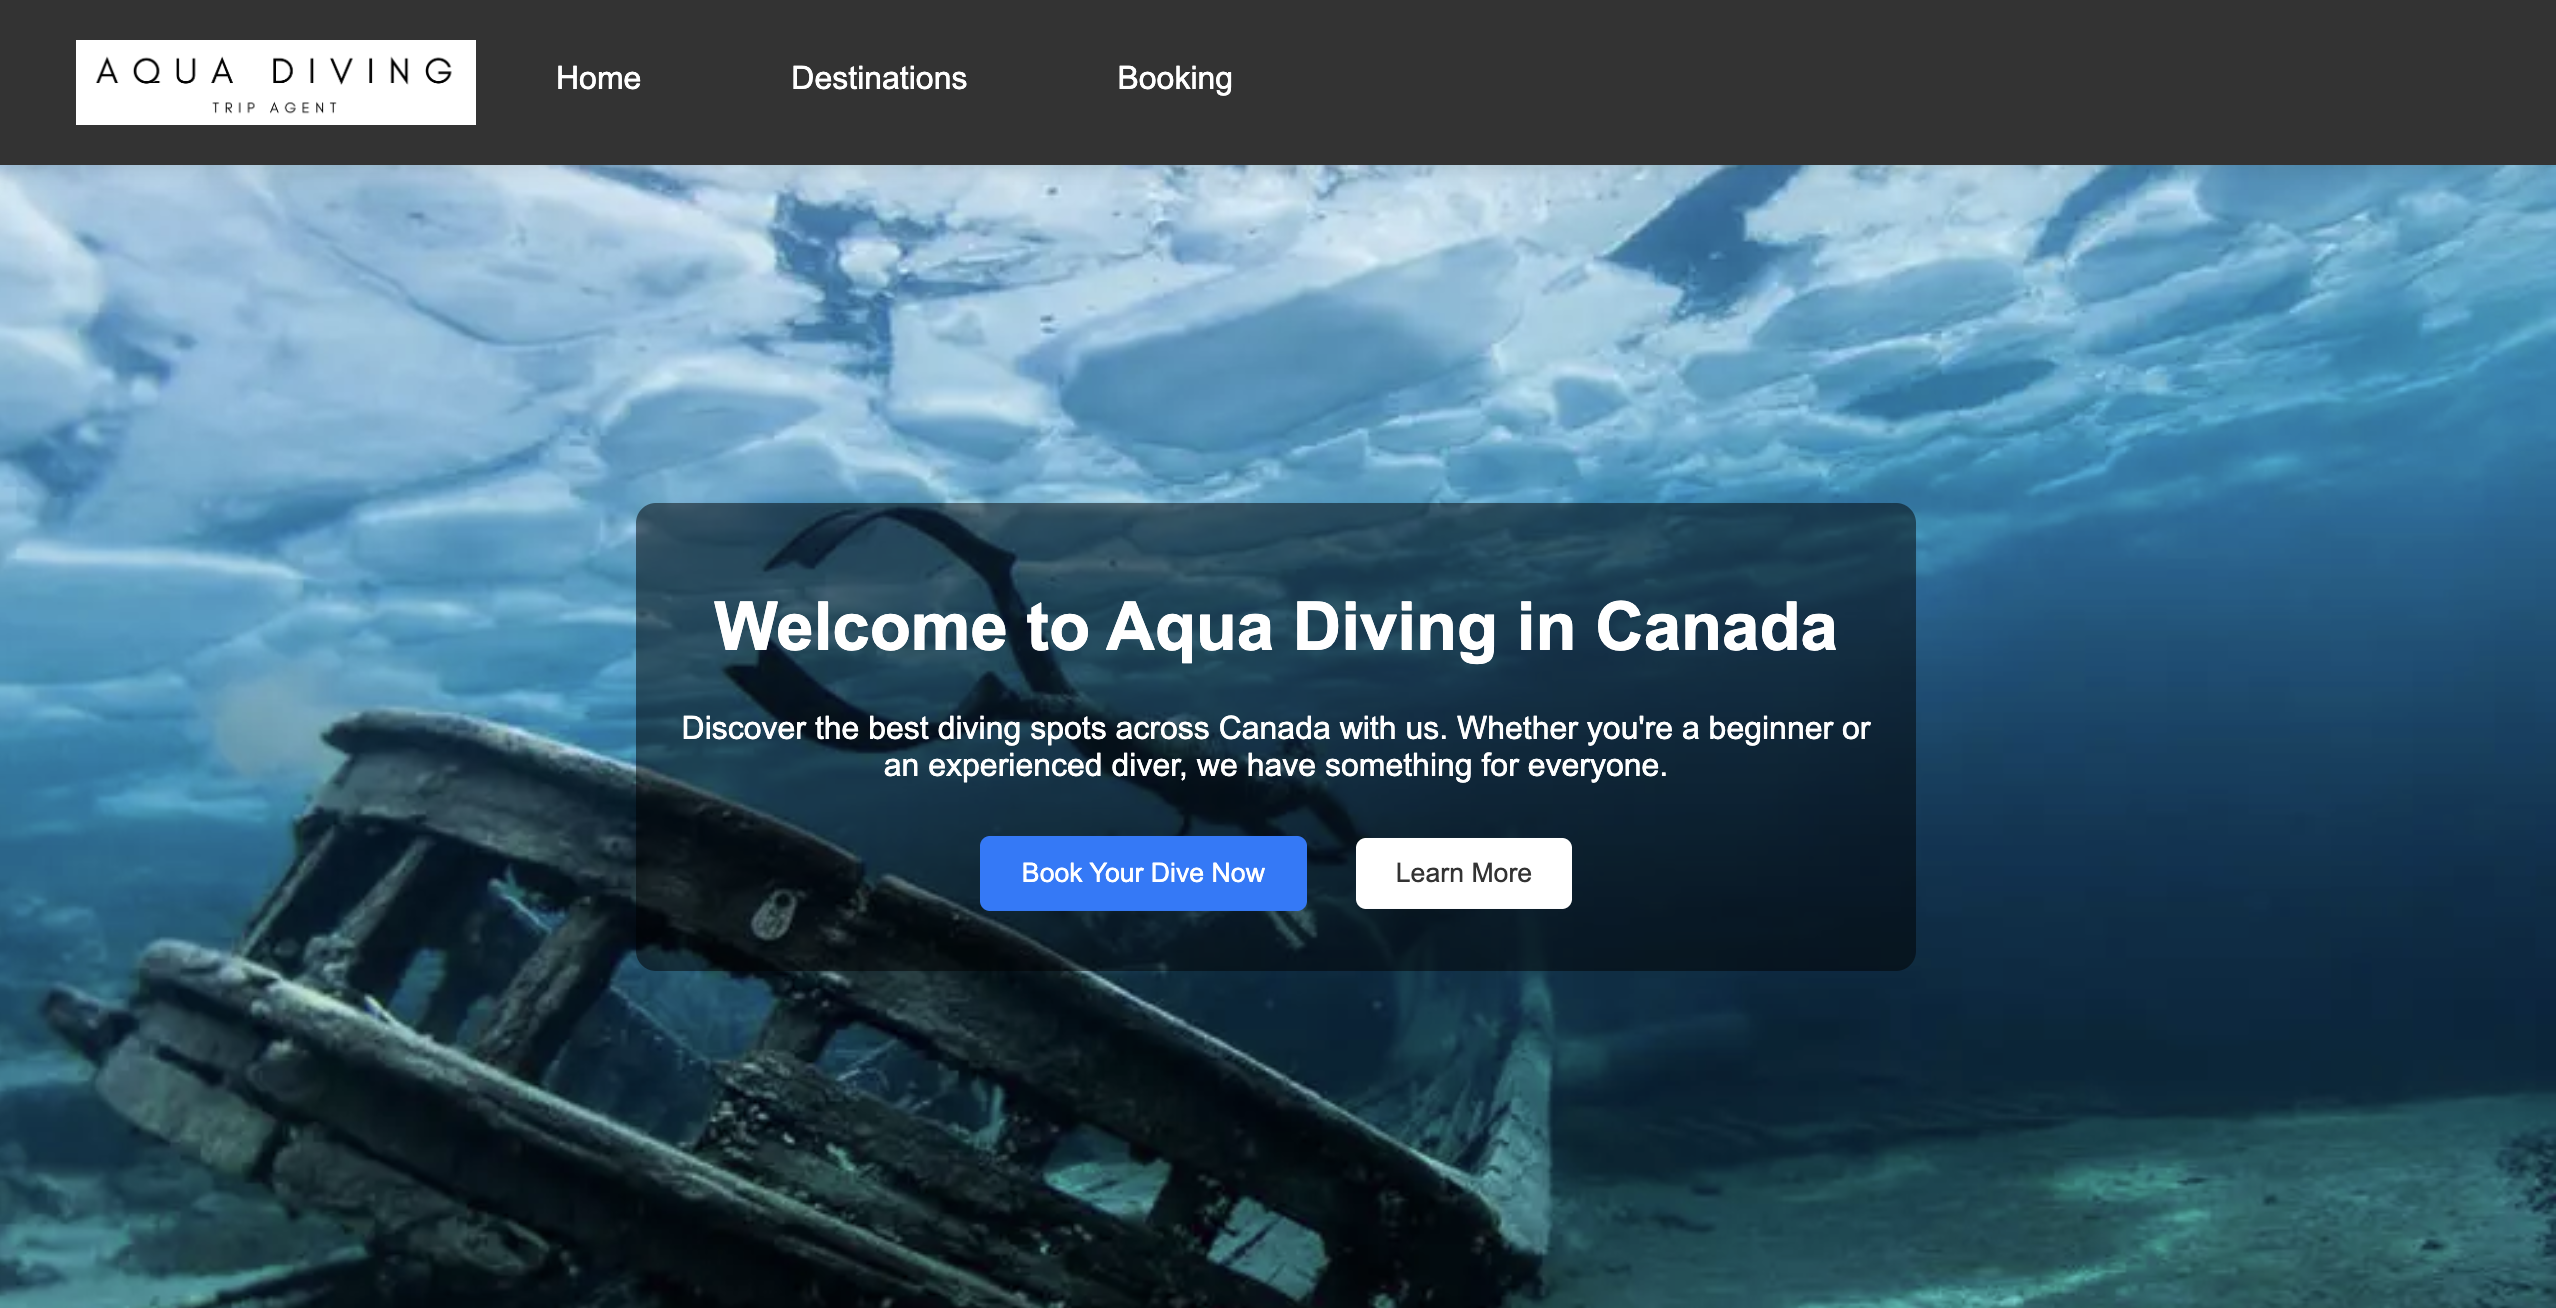
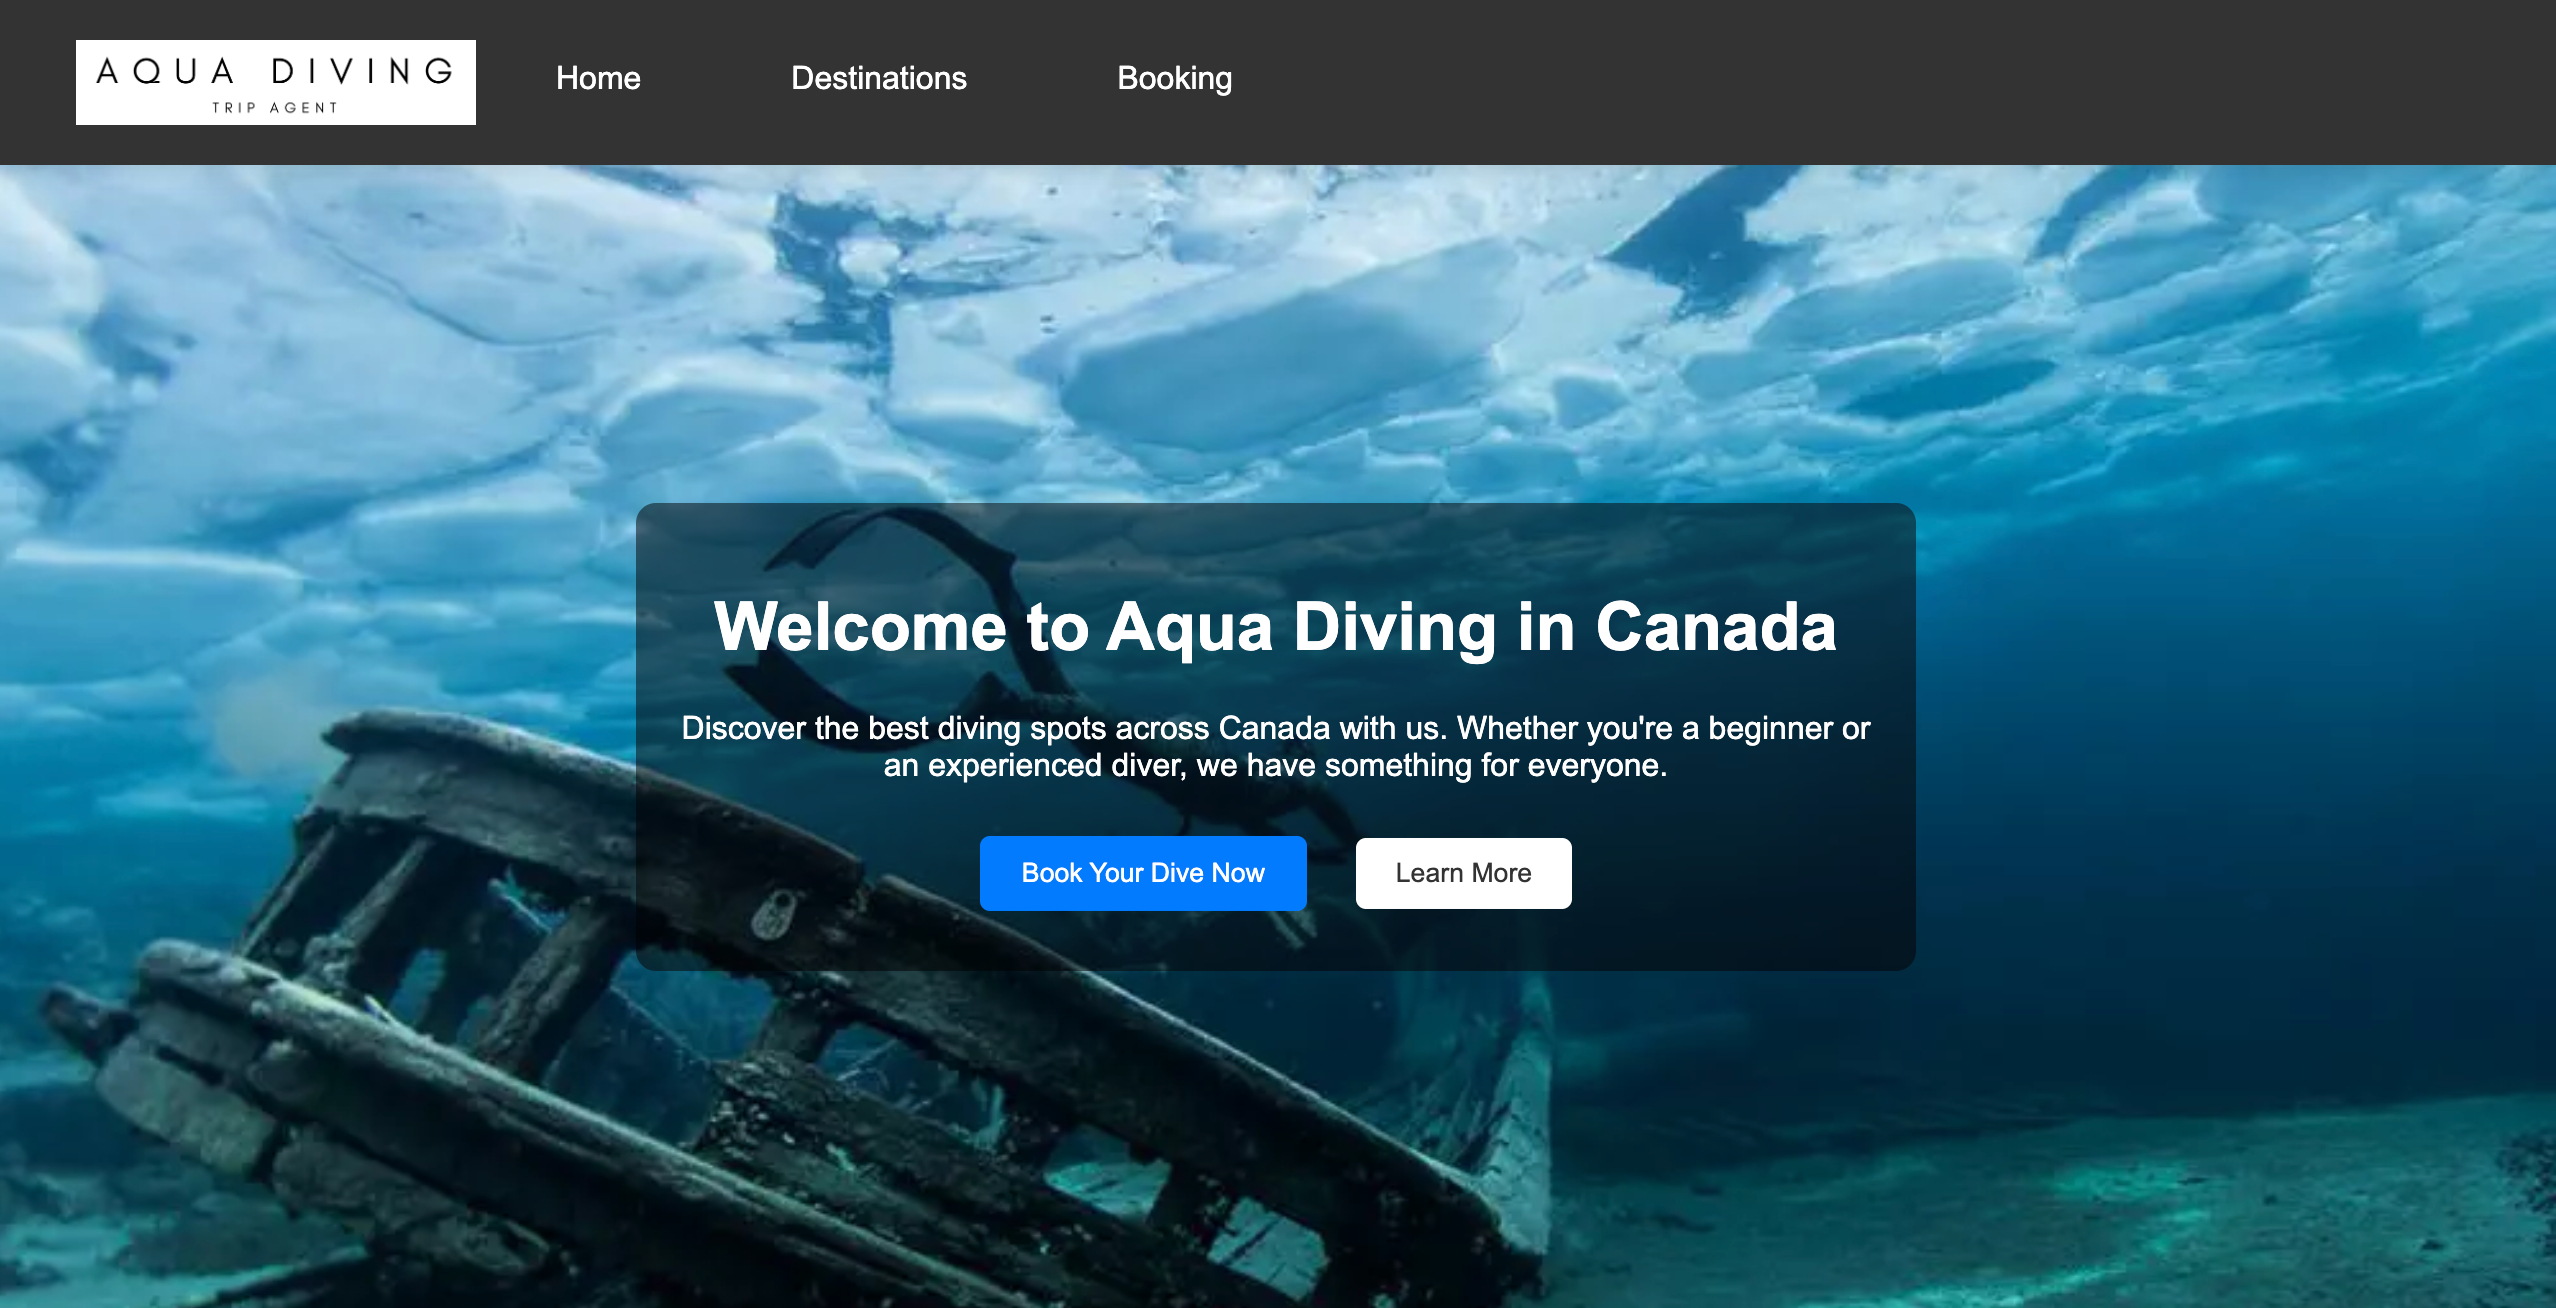
optimizing the images sizes

diff --git a/src/components/Works.jsx b/src/components/Works.jsx
@@ -12,17 +12,16 @@ const Works = () => {
       <div className="container">
         <div className="row">
           <div className="col-lg-4 grid-item">
-            <img className="img-fluid" src="/static/picture/22.jpg" alt="Aboretum at Guelph University" />
-            <h4>Find Peace in Aboretum</h4>
+            <img className="img-fluid" src="/static/picture/20.jpg" alt="Elora Querry" />
+            <h4>A Little Cliffside Escape</h4>
           </div>
           <div className="col-lg-4 grid-item">
             <img className="img-fluid" src="/static/picture/21.jpg" alt="Guelph Lake Conversation Area" />
             <h4>Nature’s Hidden Gem   -   the Scenic Route near the Guelph Lake</h4>
           </div>
-          
           <div className="col-lg-4 grid-item">
-            <img className="img-fluid" src="/static/picture/20.jpg" alt="Elora Querry" />
-            <h4>A Little Cliffside Escape</h4>
+            <img className="img-fluid" src="/static/picture/22.jpg" alt="Aboretum at Guelph University" />
+            <h4>Find Peace in Aboretum</h4>
           </div>
           <div className="col-lg-4 grid-item">
             <img className="img-fluid" src="/static/picture/17.jpg" alt="CNE SkyRide" />

diff --git a/src/components/Preloader.jsx b/src/components/Preloader.jsx
@@ -4,7 +4,7 @@ import "../styles/preloader.css";
 const Preloader = () => (
   <div className="preloader-area">
     <div className="loader">
-      <p className="loader-msg">🌿Loading...</p>
+      <p className="loader-msg">🌿Initializing...</p>
       <div className="loader-inner"></div>
     </div>
   </div>
